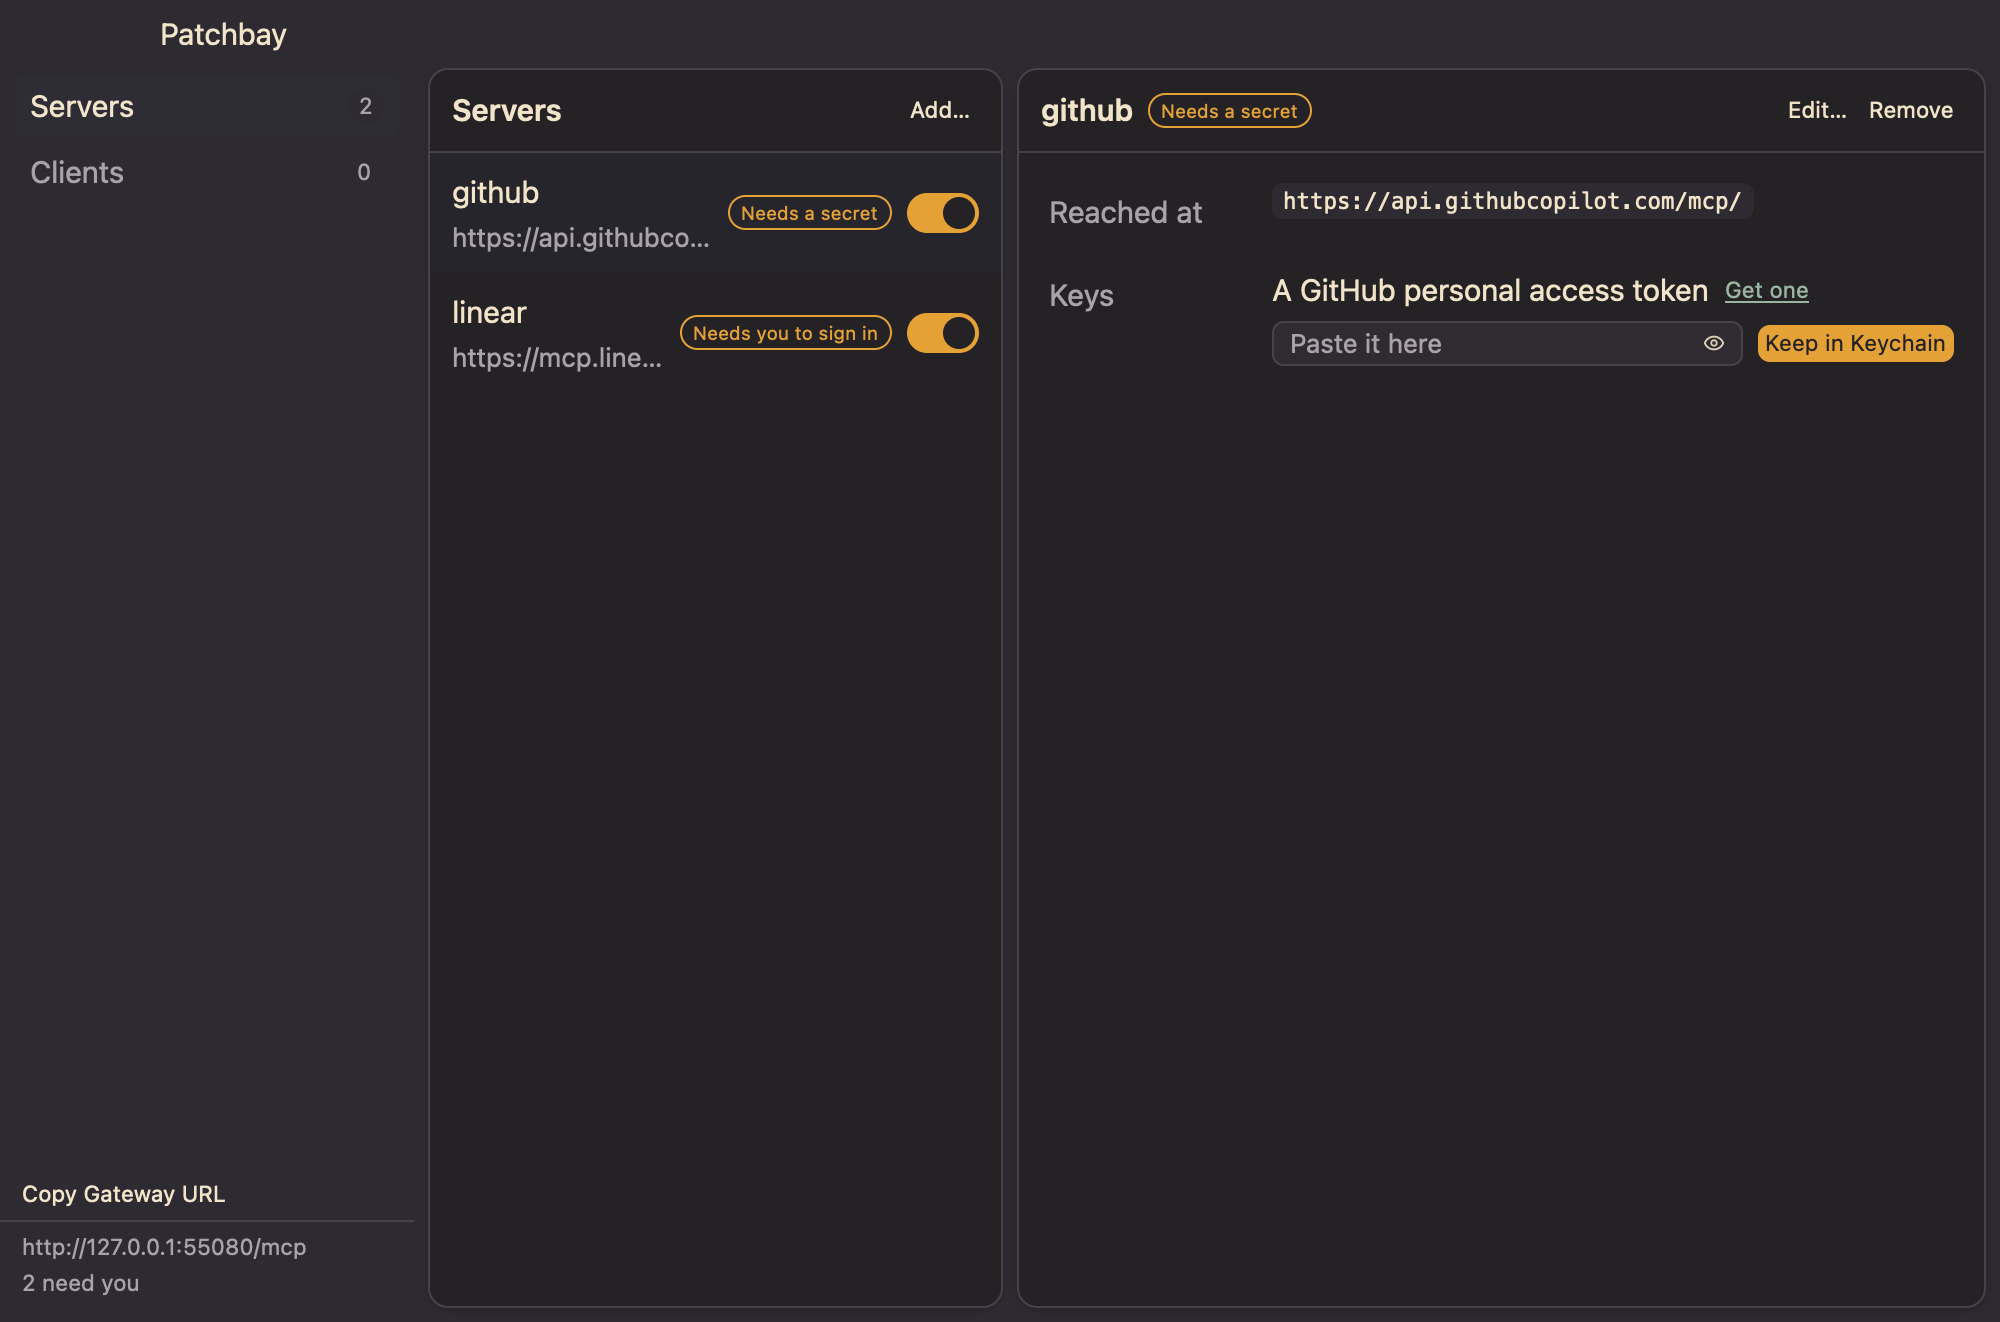
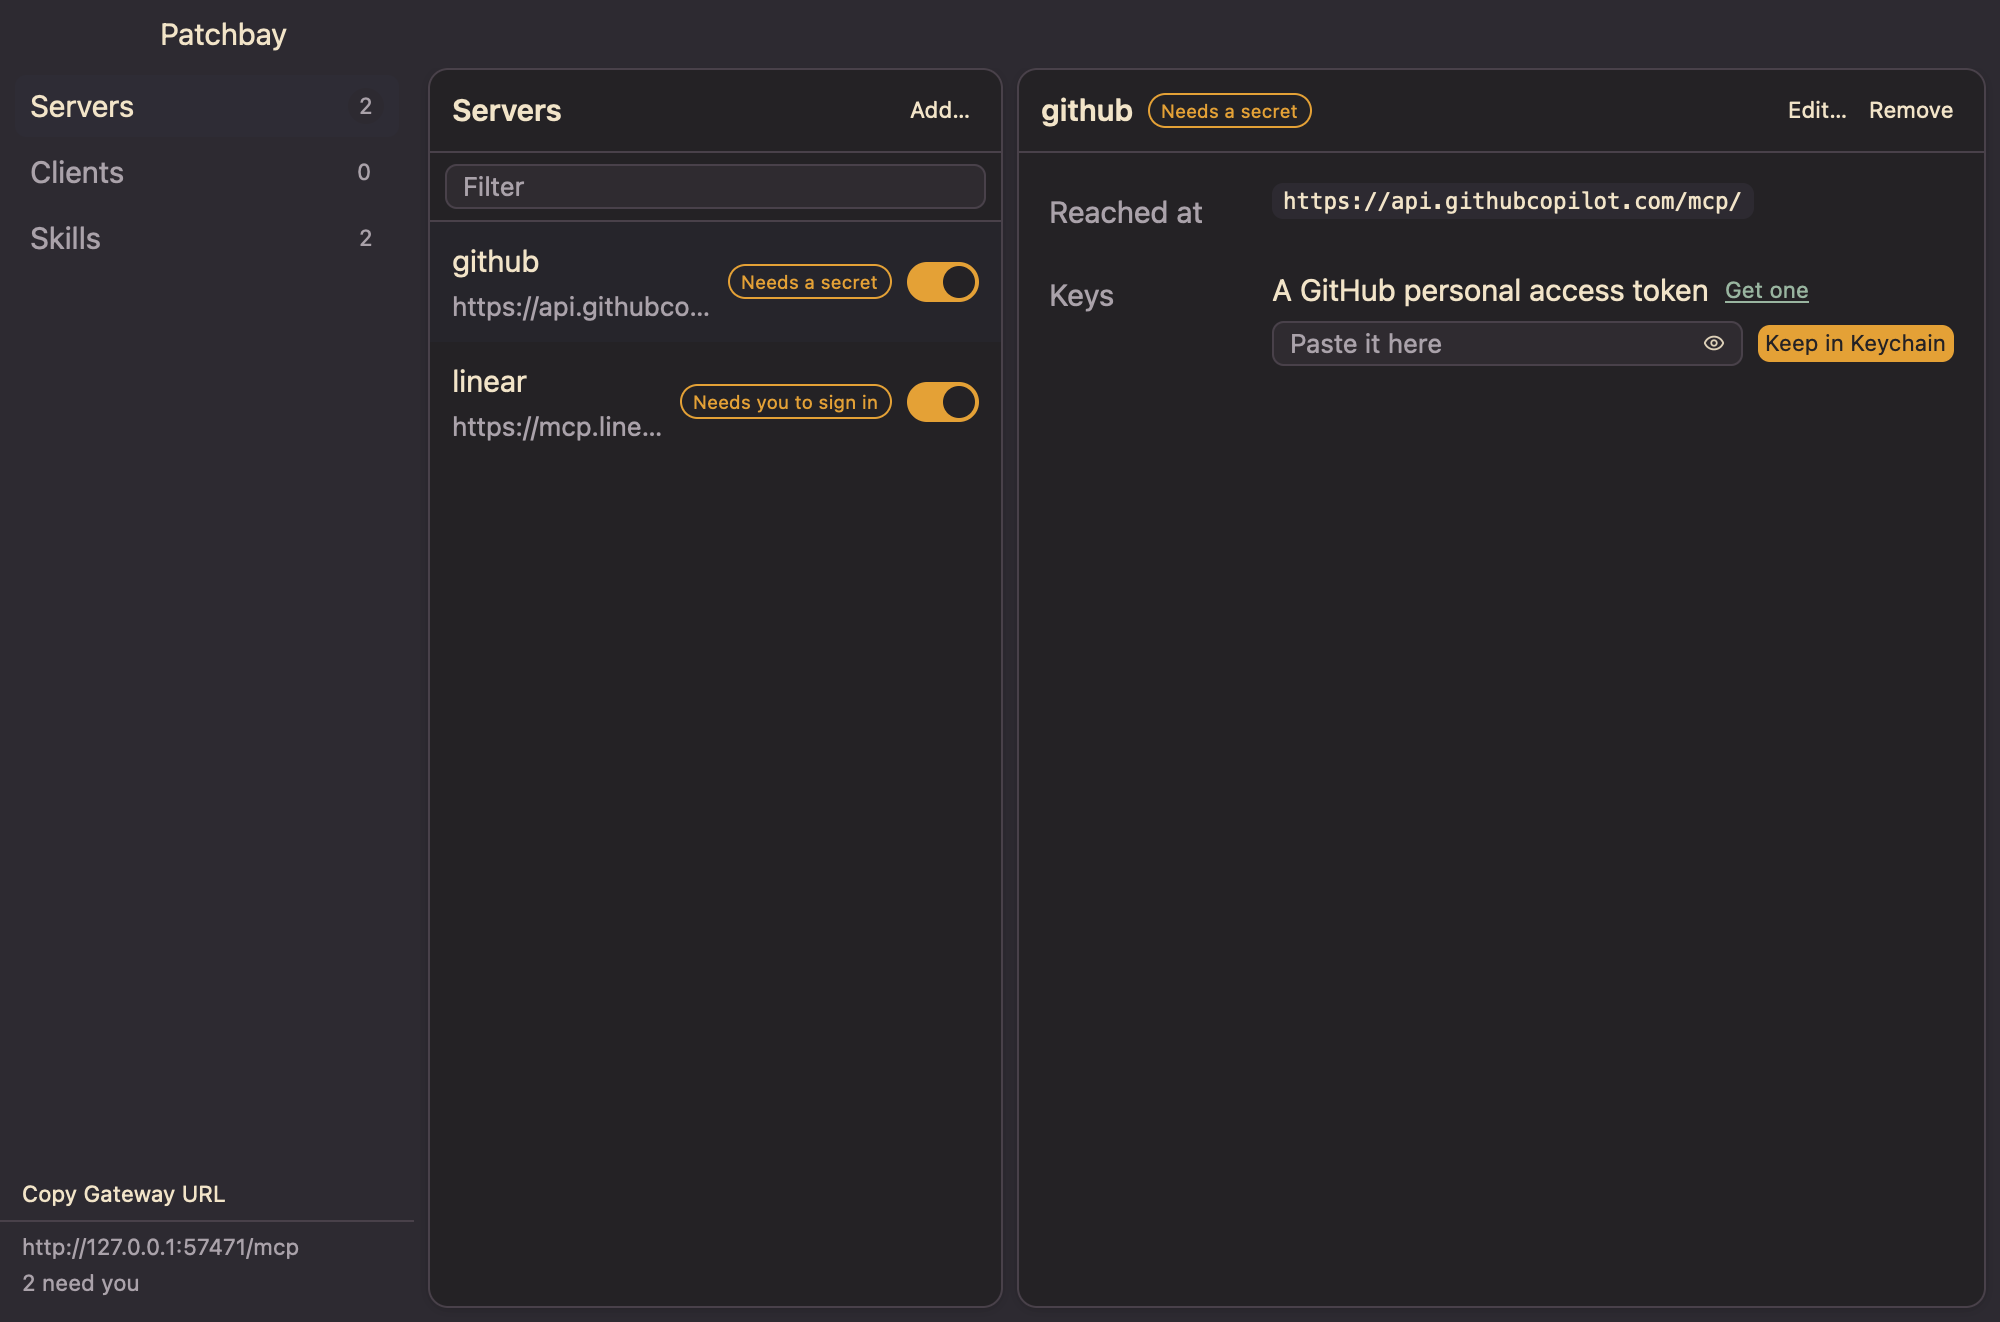
Tell the page and docs about skills, with a picture of them

Changed region(s): [[0.217, 0.1241, 0.496, 0.3411], [0.093, 0.9304, 0.155, 0.9614], [0.0, 0.1551, 0.062, 0.1861]]

diff --git a/crates/core/src/skills/source.rs b/crates/core/src/skills/source.rs
@@ -56,10 +56,12 @@ impl Source {
             return Err(SourceError::Empty);
         }
         if is_local(input) {
-            let path = if Path::new(input).is_absolute() {
-                PathBuf::from(input)
-            } else {
-                cwd.join(input)
+            // `~/` is the home folder, as a shell has it; the CLI would read it as `owner/repo` on GitHub.
+            let home = std::env::var_os("HOME").map(PathBuf::from);
+            let path = match (input.strip_prefix("~/"), home) {
+                (Some(rest), Some(home)) => home.join(rest),
+                _ if Path::new(input).is_absolute() => PathBuf::from(input),
+                _ => cwd.join(input),
             };
             return Ok(Source {
                 kind: Kind::Local,
@@ -115,6 +117,7 @@ fn is_local(input: &str) -> bool {
         || input.starts_with("../")
         || input == "."
         || input == ".."
+        || input.starts_with("~/")
 }
 
 /// The `#ref` or `#ref@skill` after a git source, and the source without it.
@@ -324,6 +327,12 @@ mod tests {
         let source = parse("./mine");
         assert_eq!(source.kind, Kind::Local);
         assert_eq!(source.url, "/work/./mine");
+        // CI's steps may run without a HOME.
+        if let Ok(home) = std::env::var("HOME") {
+            let tilde = parse("~/src/mine");
+            assert_eq!(tilde.kind, Kind::Local);
+            assert_eq!(tilde.url, format!("{home}/src/mine"));
+        }
     }
 
     #[test]

diff --git a/docs/skills.md b/docs/skills.md
@@ -1,0 +1,80 @@
+# Your skills
+
+A skill is a folder with a `SKILL.md` in it: instructions, and sometimes scripts, that an AI tool reads when the work
+calls for it. Patchbay installs skills the way `npx skills add -g` ([skills.sh](https://skills.sh)) does, in the same
+folders and with the same record of where each came from. So Patchbay and the `skills` CLI look after one set of
+skills: what either installs, the other lists, checks and updates.
+
+![Your skills, and the tools that have each one](media/skills.png)
+
+## Adding skills
+
+Choose **Add Skills…** in the Skills menu, or **Add…** above the list, and give it a source. Anything `npx skills add`
+takes works here:
+
+| Source | |
+| --- | --- |
+| `vercel-labs/agent-skills` | a GitHub repository |
+| `vercel-labs/agent-skills@web-design-guidelines` | one skill in it |
+| `https://github.com/owner/repo/tree/main/skills/review` | one folder, at a branch |
+| `https://git.phin.tech/team/skills.git`, `git@github.com:owner/repo.git` | any other git repository |
+| `~/src/my-skills` | a folder on your Mac |
+
+A whole line copied from skills.sh or a README works too, flags and all:
+`npx skills add vercel-labs/agent-skills --skill web-design-guidelines -a claude-code`.
+
+Press Return and Patchbay fetches the source and lists the skills in it. It looks where the `skills` CLI looks:
+a `SKILL.md` at the top, `skills/`, the tools' own skills folders, and the paths a `skills.sh.json` or a Claude
+plugin names. Tick the ones you want and choose **Install**.
+
+## Where skills go
+
+Each skill is kept once, in `~/.agents/skills/<name>`, and linked into the folder of each tool that has one of its
+own. Tools that read `~/.agents/skills` themselves need no link.
+
+| Tool | Its skills folder |
+| --- | --- |
+| Claude Code | `~/.claude/skills` |
+| Cursor | `~/.cursor/skills` |
+| VS Code (Copilot) | `~/.copilot/skills` |
+| Gemini CLI | `~/.gemini/skills` |
+| opencode | `~/.config/opencode/skills` |
+| Codex, pi | read `~/.agents/skills` itself |
+
+A new skill goes to every tool Patchbay finds on your Mac, or only the ones a pasted line names with `-a`. Tick or
+untick a tool on the skill's page to give it the skill or take it away.
+
+Where each skill came from is kept in `~/.agents/.skill-lock.json`, the `skills` CLI's own record, which Patchbay adds
+to and never empties.
+
+## Skills of your own
+
+A skill you put in a folder yourself shows as **Your own**, and Patchbay never replaces or removes it. **Take Over** on
+its page (or **Take Over Every Skill** in the Skills menu) puts it in Patchbay's care:
+
+- It's kept in `~/.agents/skills`, if it isn't there already.
+- Each tool's copy becomes a link to that one, but only where the files are the same. A copy you've changed, or a link
+  of your own to somewhere else, is left as it is.
+- It's listed as from **This Mac**, so there's nothing to fetch updates from.
+
+Then you can choose which tools have it, or remove it.
+
+## Updates
+
+**Check for Skill Updates** fetches each skill's source and marks the ones that have changed, with the files that
+differ. **Update** on a skill's page applies its update; **Update All Skills** applies every one. A skill is
+instructions an agent follows and code it may run, so look at what changed before you take it.
+
+## From a terminal
+
+```sh
+patchbay skills add vercel-labs/agent-skills --skill web-design-guidelines -a claude-code
+patchbay skills add owner/repo --list    # what's in it, without installing
+patchbay skills list                     # every skill, where it's from, and which tools have it
+patchbay skills check                    # which have changed at their source
+patchbay skills update                   # apply those changes
+patchbay skills remove web-design-guidelines
+```
+
+`add` takes the flags `npx skills add` takes: `--skill` (or `-s`, `'*'` for every one), `--agent` (or `-a`, `'*'`
+for every tool), `--list`, and `-g` and `-y`, which change nothing since Patchbay always installs for every project.

diff --git a/README.md b/README.md
@@ -1,11 +1,12 @@
 # Patchbay
 
-One place for your MCP servers. Patchbay runs them, keeps their keys in the Keychain, signs in to the ones that use
-OAuth, and puts every one behind a single local gateway. Then it points your AI tools at that gateway: Claude Code,
-Claude Desktop, Codex, Cursor, VS Code, Gemini CLI, opencode, pi, omp and PiG.
+One place for your MCP servers and agent skills. Patchbay runs your servers, keeps their keys in the Keychain, signs
+in to the ones that use OAuth, and puts every one behind a single local gateway. It installs skills once and gives
+them to every tool that reads them. Then it points your AI tools at all of it: Claude Code, Claude Desktop, Codex,
+Cursor, VS Code, Gemini CLI, opencode, pi, omp and PiG.
 
-Add a server once and every tool has it. Change a key once and every tool uses the new one. None of them ever sees
-the key.
+Add a server once and every tool has it. Change a key once and every tool uses the new one, and none of them ever
+sees it. Add a skill once and every tool that reads skills has it too.
 
 ![Patchbay's servers, one waiting for its key](docs/media/servers.png)
 
@@ -22,10 +23,21 @@ the key.
 - **Choose what each tool gets.** Every server, a profile of them, or only the ones you tick. And how: one entry with
   every tool named after its server (`linear__list_issues`), an entry for each server, or compact: three tools that
   search for the rest and call them, so a tool with many servers keeps its context for the work.
+- **Skills, the way skills.sh installs them.** Paste `owner/repo`, a GitHub link or a whole `npx skills add …` line
+  into Add Skills, tick the skills you want, and Patchbay installs them where `npx skills add -g` would, linked into
+  Claude Code, Cursor, VS Code, Gemini CLI and opencode, and read by Codex and pi. It keeps the same record as the
+  `skills` CLI, so the two look after one set of skills, and it checks each skill's source for changes and shows
+  which files changed.
+- **Skills you made yourself, taken over.** A skill already in a tool's folder is listed as your own and left alone
+  until you choose Take Over. Then Patchbay keeps one copy and links each tool to it, replacing only copies that are
+  the same.
+- **Find anything.** Every list has a filter (⌘F): type `aws` or `linear` to narrow it.
 - **Stays out of the way.** Close the window and the gateway keeps running from the menu bar, out of the Dock. Turn on
   Open at login in Settings and it's there whenever your tools are.
 
 ![Choosing what Codex gets](docs/media/clients.png)
+
+![Your skills, and which tools have each one](docs/media/skills.png)
 
 ## Getting it
 
@@ -48,12 +60,16 @@ patchbay sign-in linear                 # sign in to an OAuth server in the brow
 patchbay clients                        # which tools are connected
 patchbay connect cursor --servers linear --layout compact
 patchbay bridge server/linear           # a server over stdio, for a tool that only runs commands
+patchbay skills add vercel-labs/agent-skills --skill web-design-guidelines
+patchbay skills list                    # every skill, where it's from, and which tools have it
+patchbay skills update                  # fetch what's changed at each skill's source
 ```
 
 ## More
 
 - [Your servers: patchbay.toml](docs/servers.md)
 - [Your tools: clients and layouts](docs/clients.md)
+- [Your skills](docs/skills.md)
 - [Building and releasing Patchbay](DEVELOPMENT.md)
 
 Patchbay is made by Phin Tech, in Rust on [GPUI](https://gpui.rs), [gpui-kit](https://gpui-kit.com) and

diff --git a/docs/clients.md b/docs/clients.md
@@ -39,6 +39,11 @@ Every server at once, and one on Only these when you tick it.
 
 From a terminal: `patchbay connect <client> --servers linear,github --layout per-server`.
 
+## Skills
+
+Tools that read agent skills get the ones you install in Patchbay too, each from its own skills folder: see
+[Your skills](skills.md).
+
 ## A server that isn't ready
 
 A server waiting for its key or a sign-in shows up in your tools as `<server>__needs_setup`. Calling it says what to do
